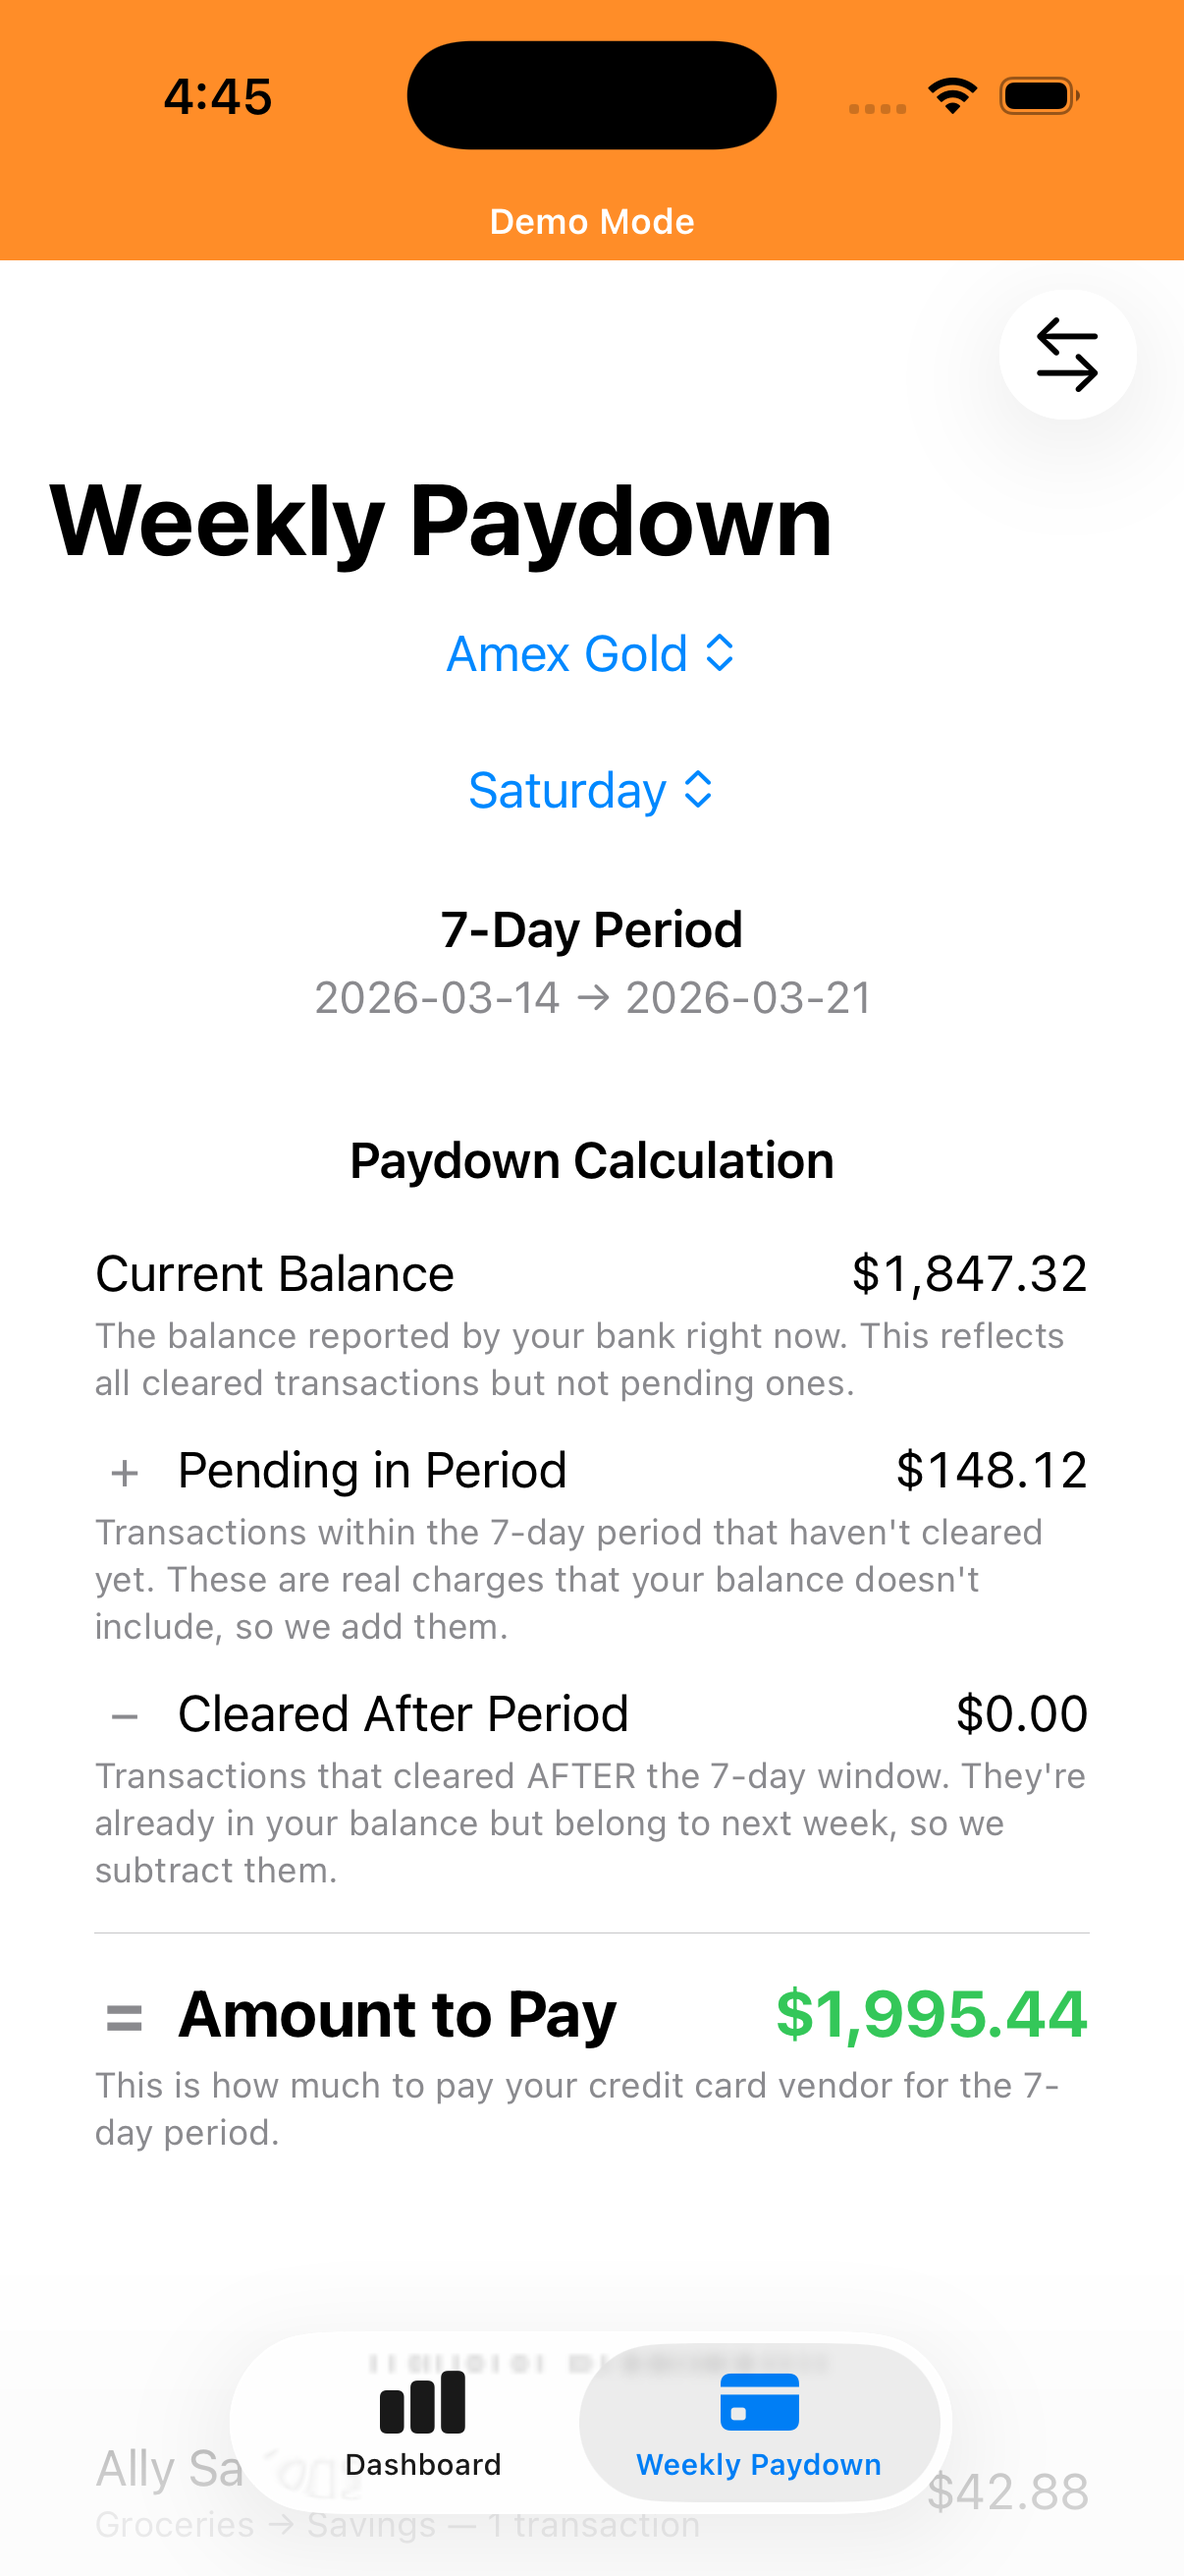
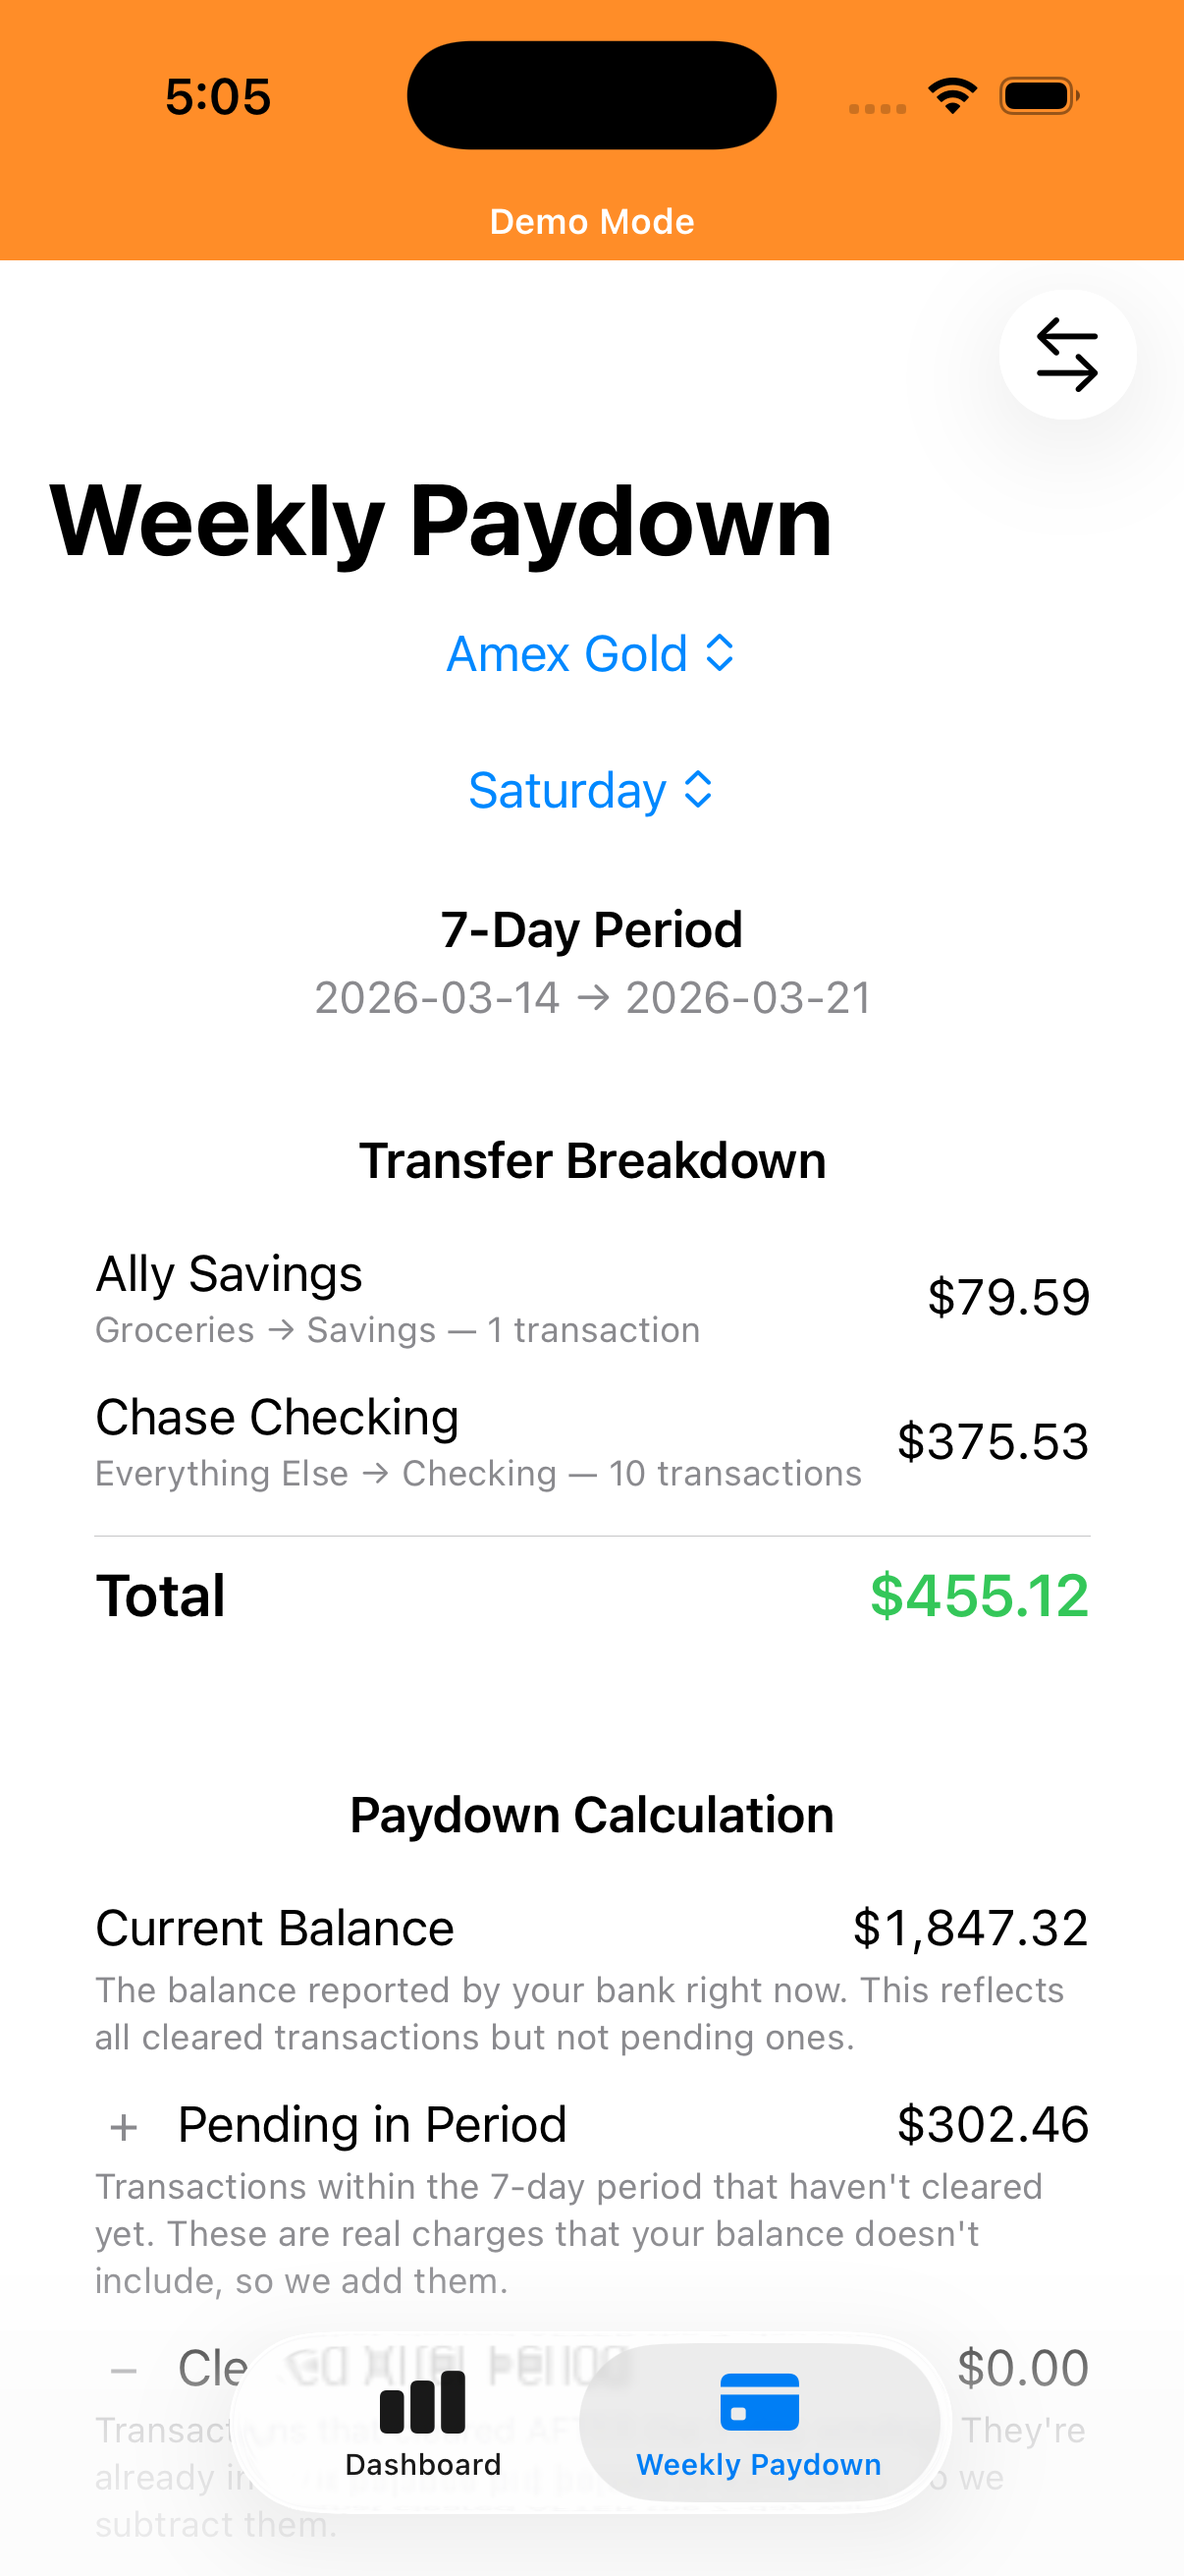
Move Transfer Breakdown above calculation, subtract transfers from paydown
- Transfer Breakdown section now appears first (above Paydown Calculation)
- Paydown Calculation includes 'Covered by Transfers' line item that subtracts
  the transfer total from the amount to pay
- Final 'Amount to Pay' reflects only what's left after other accounts cover
  their portion via transfers

diff --git a/Finance/WeeklyPaydownView.swift b/Finance/WeeklyPaydownView.swift
@@ -40,8 +40,8 @@ struct WeeklyPaydownView: View {
                             accountPicker
                             periodHeader
                             if selectedAccount != nil {
-                                calculationBreakdown
                                 transferBreakdownSection(periodTransactions: periodTx)
+                                calculationBreakdownSection(periodTransactions: periodTx)
                                 vendorChart(periodTransactions: periodTx)
                                 transactionList(periodTransactions: periodTx)
                             } else {
@@ -174,8 +174,19 @@ struct WeeklyPaydownView: View {
         }
     }
 
-    private var calculationBreakdown: some View {
+    private func calculationBreakdownSection(periodTransactions: [PersistenceService.Transaction]) -> some View {
         let calc = paydownModel.calculation(accountId: selectedAccountIdOrNil, accounts: accounts, transactions: transactions)
+        let breakdown = paydownModel.transferBreakdown(
+            accountId: selectedAccountId,
+            periodTransactions: periodTransactions,
+            vendors: vendors,
+            rules: transferRules,
+            accounts: accounts
+        )
+        let transferTotal = breakdown.reduce(0.0) { $0 + $1.amount }
+        let hasTransfers = !breakdown.isEmpty
+        let finalAmount = calc.adjustedSpending - transferTotal
+
         return VStack(spacing: 0) {
             Text("Paydown Calculation")
                 .font(.headline)
@@ -205,16 +216,37 @@ struct WeeklyPaydownView: View {
                 sign: "−"
             )
 
-            Divider()
-                .padding(.vertical, 8)
+            if hasTransfers {
+                CalculationRow(
+                    label: "Covered by Transfers",
+                    amount: transferTotal,
+                    explanation: "Amount covered by transfers from other accounts. These are subtracted since the linked accounts will handle the payment.",
+                    isTotal: false,
+                    sign: "−"
+                )
 
-            CalculationRow(
-                label: "Amount to Pay",
-                amount: calc.adjustedSpending,
-                explanation: "This is how much to pay your credit card vendor for the 7-day period.",
-                isTotal: true,
-                sign: "="
-            )
+                Divider()
+                    .padding(.vertical, 8)
+
+                CalculationRow(
+                    label: "Amount to Pay",
+                    amount: finalAmount,
+                    explanation: "The remaining amount to pay after transfers from other accounts cover their portion.",
+                    isTotal: true,
+                    sign: "="
+                )
+            } else {
+                Divider()
+                    .padding(.vertical, 8)
+
+                CalculationRow(
+                    label: "Amount to Pay",
+                    amount: calc.adjustedSpending,
+                    explanation: "This is how much to pay your credit card vendor for the 7-day period.",
+                    isTotal: true,
+                    sign: "="
+                )
+            }
         }
         .padding()
         .background(Color(.systemBackground))
